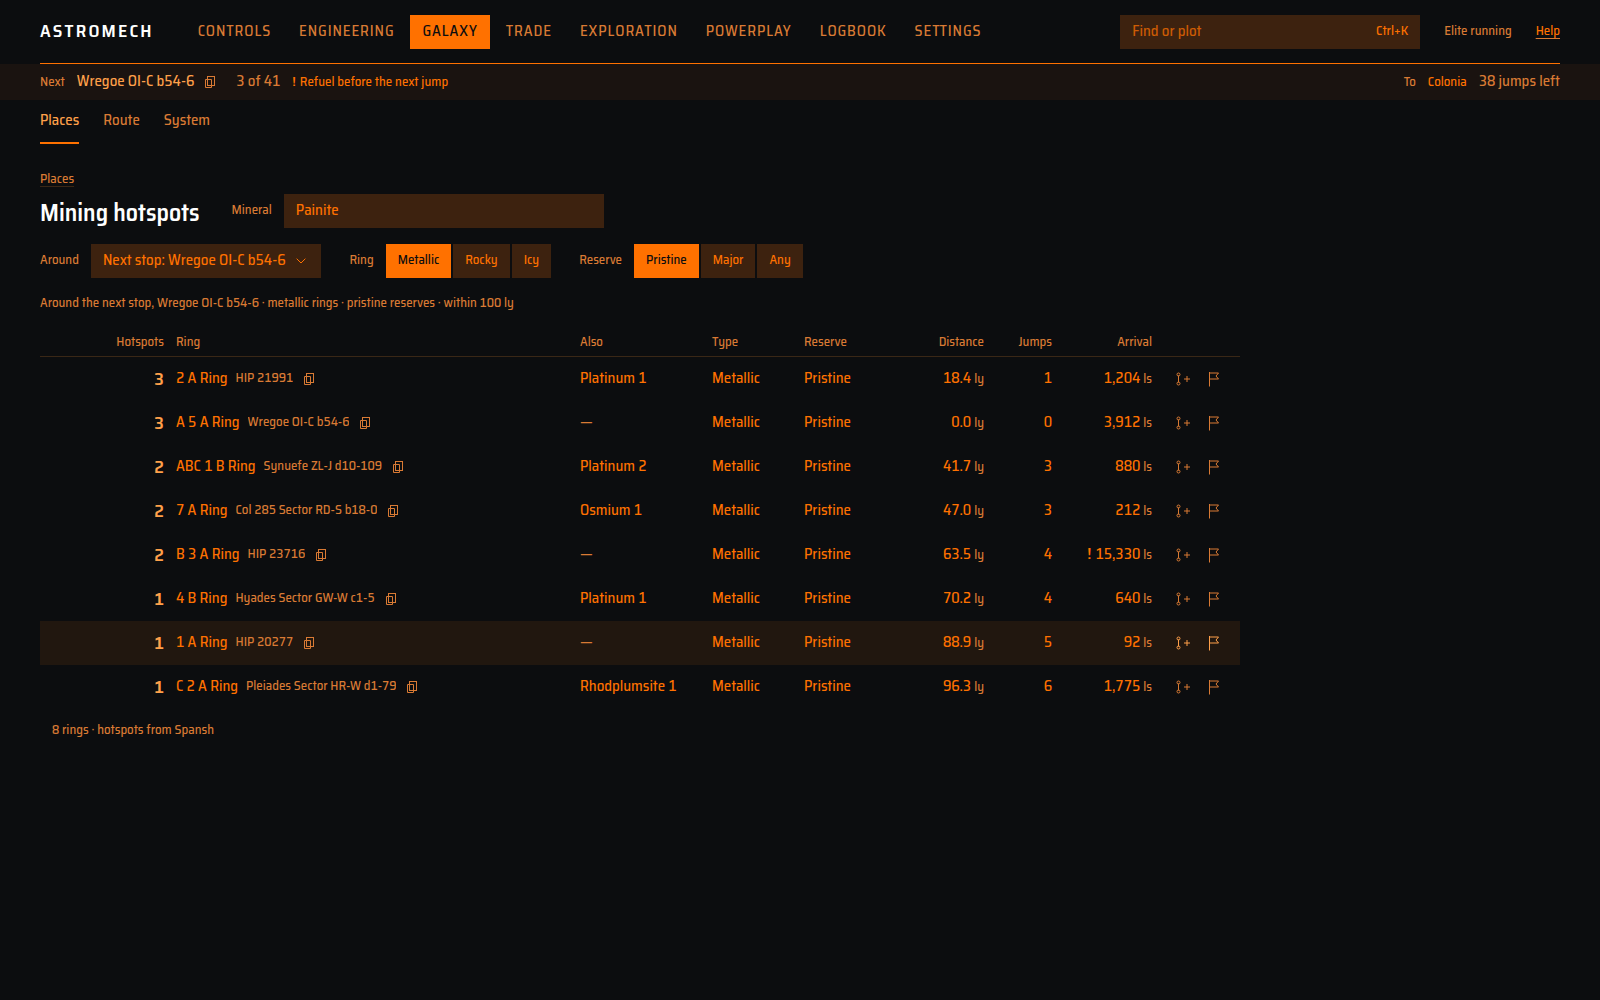
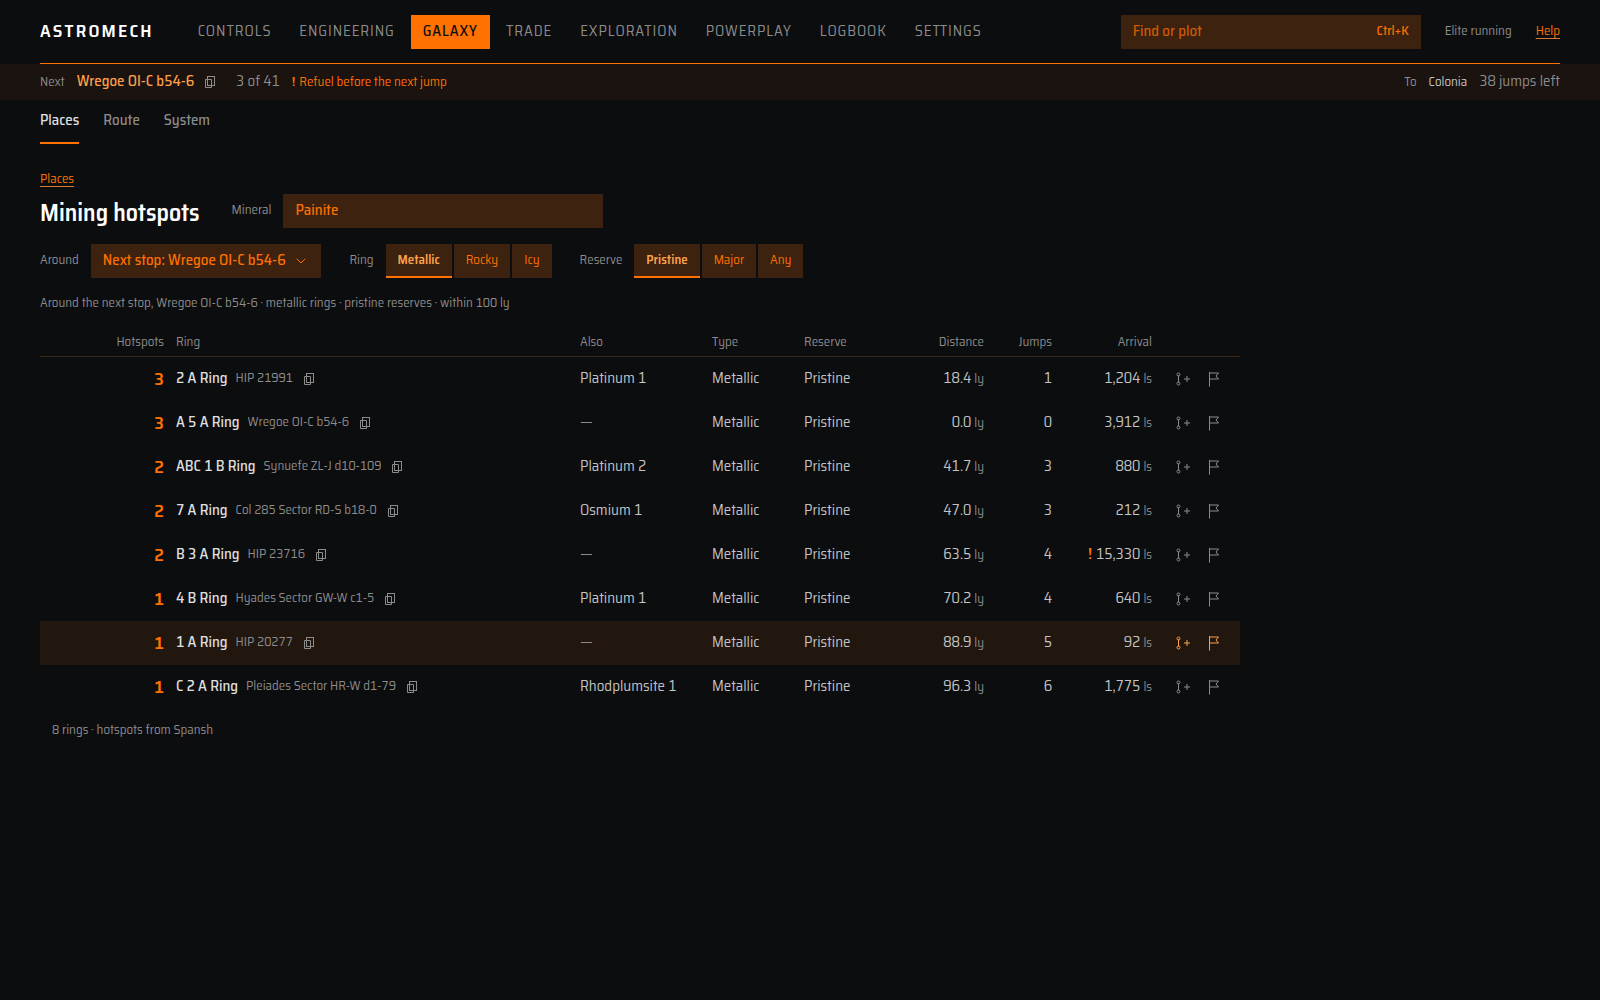
astromech-3kf5: after captures; design-system mockups re-rendered in revision 5's colours

diff --git a/app/src/mockups/ds/ds.css b/app/src/mockups/ds/ds.css
@@ -1,15 +1,16 @@
 /* Shared parts for the DESIGN.md mockups (#/mockup/ds-*). Only DESIGN.md tokens. */
-.ds { font-family: var(--face); font-stretch: var(--face-stretch); font-size: var(--fs); line-height: 1.45; color: var(--accent); font-variant-numeric: tabular-nums; }
+.ds { font-family: var(--face); font-stretch: var(--face-stretch); font-size: var(--fs); line-height: 1.45; font-weight: 400; color: var(--prose); font-variant-numeric: tabular-nums; }
 .ds button { all: unset; cursor: pointer; box-sizing: border-box; font-stretch: var(--face-stretch); }
 .ds :focus-visible, .ds .focus { outline: 1px solid var(--accent); outline-offset: 2px; }
-/* Focus on a filled element (selected row, tile or option, active top tab): On Orange, inset 2 px.
+/* Focus on a filled element (the primary button, the active top tab): On Orange, inset 2 px.
    .focus draws it in the static mockups. */
-.ds :is(.on, .sel):is(:focus-visible, .focus) { outline: 1px solid var(--on-accent); outline-offset: -3px; }
+.ds :is(.primary, .top .on):is(:focus-visible, .focus) { outline: 1px solid var(--on-accent); outline-offset: -3px; }
 
-/* The orange ramp and the few neutrals */
+/* Revision 5: data in the greys, orange for the ranked value, the main value and what to act on */
 .ds .lit { color: var(--orange-lit); }
 .ds .mid { color: var(--label-grey); }
-.ds .dim, .ds .dim * { color: var(--orange-dim) !important; }
+.ds .dim, .ds .dim * { color: var(--grey-dim) !important; }
+.ds .name { color: var(--options-grey); font-weight: 500; }
 .ds .white { color: var(--text-hi); }
 .ds .prose { color: var(--prose); }
 .ds .alarm { color: var(--alarm) !important; }
@@ -18,7 +19,7 @@
 /* Type roles */
 .ds .title { font-size: var(--fs-xl); font-weight: 600; line-height: 1.2; color: var(--text-hi); margin: 0; }
 .ds .label { font-size: var(--fs-s); color: var(--label-grey); }
-.ds .section { display: flex; align-items: center; gap: var(--sp-3); font-size: var(--fs-s); font-weight: 600; letter-spacing: var(--caps); text-transform: uppercase; color: var(--accent); margin: 0; }
+.ds .section { display: flex; align-items: center; gap: var(--sp-3); font-size: var(--fs-s); font-weight: 600; letter-spacing: var(--caps); text-transform: uppercase; color: var(--prose); margin: 0; }
 .ds .section::after { content: ""; flex: 1; height: 1px; background: var(--line); }
 .ds .section.current { color: var(--text-hi); }
 .ds .section.current::after { background: var(--accent); }
@@ -34,14 +35,14 @@
 .ds .bang.alarm { color: var(--alarm); }
 
 /* Ember cells mean editable. Text in a cell is at least base orange. */
-.ds .cell { display: flex; align-items: center; height: var(--row); padding: 0 var(--sp-3); background: var(--cell); color: var(--accent); }
+.ds .cell { display: flex; align-items: center; height: var(--row); padding: 0 var(--sp-3); background: var(--cell); color: var(--accent); font-weight: 500; }
 .ds .cell:hover { background: var(--cell-hover); }
 .ds .cell .ph { color: var(--placeholder); }
 .ds .cell.dropdown { justify-content: space-between; gap: var(--sp-2); }
 .ds .choices { display: inline-flex; gap: var(--gap); }
 .ds .choice { display: inline-flex; align-items: center; height: var(--row); padding: 0 var(--sp-3); background: var(--cell); color: var(--accent); font-size: var(--fs-s); }
 .ds .choice:hover { background: var(--cell-hover); }
-.ds .choice.on { background: var(--accent); color: var(--on-accent); }
+.ds .choice.on { color: var(--orange-lit); font-weight: 600; box-shadow: inset 0 -2px var(--accent); }
 
 /* Badge: outlined, never filled. */
 .ds .badge { display: inline-flex; align-items: center; height: 20px; padding: 0 6px; border: 1px solid var(--line); color: var(--label-grey); font-size: var(--fs-s); line-height: 1; white-space: nowrap; }

diff --git a/app/src/mockups/ds/Materials.svelte b/app/src/mockups/ds/Materials.svelte
@@ -43,7 +43,7 @@
               <span class="count num">{n}</span>
               <span class="name">{name}</span>
               {#if want}<span class="need num">{#if n < want}<span class="bang">!</span>{/if}need {want}</span>{/if}
-              {#if n > 0 && name !== selected}<span class="track"><span class="fill" class:full={n >= cap} style="width: {(100 * n) / cap}%"></span></span>{/if}
+              {#if n > 0}<span class="track"><span class="fill" class:full={n >= cap} style="width: {(100 * n) / cap}%"></span></span>{/if}
             </div>
           {/each}
         {/each}
@@ -53,7 +53,7 @@
     <aside>
       <h2 class="title">Iron</h2>
       <p class="label">Raw · grade 1 · category 4</p>
-      <p class="held"><span class="white big">22</span><span class="unit">of 300</span></p>
+      <p class="held"><span class="lit big">22</span><span class="unit">of 300</span></p>
       <dl>
         <dt class="label">Trade up</dt><dd><span class="num">6</span> Iron → <span class="num">1</span> Zinc</dd>
         <dt class="label">Trade down</dt><dd>—</dd>
@@ -73,19 +73,20 @@
   .colhead { padding: 0 var(--sp-3); }
   .rowhead { align-self: center; }
   .rowhead.current { color: var(--text-hi); }
-  .tile { position: relative; height: var(--tile); padding: 10px var(--sp-3); background: var(--surface); display: grid; grid-template-rows: auto 1fr; align-content: start; }
-  .count { font-size: var(--fs-xxl); font-weight: 500; line-height: 1; color: var(--orange-lit); }
-  .name { align-self: end; font-size: var(--fs-s); color: var(--accent); }
+  /* Revision 5's tile: a Seam outline on Void, the count Options Grey, the name Prose Grey, the
+     plan's mark Orange; the selected tile raised with its count and name White. */
+  .tile { position: relative; height: var(--tile); padding: 10px var(--sp-3); background: var(--bg); outline: 1px solid var(--line); outline-offset: -1px; display: grid; grid-template-rows: auto 1fr; align-content: start; }
+  .count { font-size: var(--fs-xxl); font-weight: 500; line-height: 1; color: var(--options-grey); }
+  .name { align-self: end; font-size: var(--fs-s); font-weight: 400; color: var(--prose); }
   .need { position: absolute; top: 10px; right: var(--sp-3); font-size: var(--fs-xs); color: var(--accent); }
-  .track { position: absolute; left: 0; right: 0; bottom: 0; height: 2px; background: var(--line); }
-  .fill { display: block; height: 100%; background: var(--orange-mid); }
+  .track { position: absolute; left: 0; right: 0; bottom: 0; height: 2px; background: var(--mark-off); }
+  .fill { display: block; height: 100%; background: var(--prose); }
   .fill.full { background: var(--orange-lit); }
-  .tile.none { background: var(--bg); outline: 1px solid var(--line); outline-offset: -1px; }
-  .tile.none .count, .tile.none .name { color: var(--orange-dim); }
-  .tile.sel { background: var(--accent); }
-  .tile.sel .count, .tile.sel .name { color: var(--on-accent); }
+  .tile.none .count, .tile.none .name { color: var(--grey-dim); }
+  .tile.sel { background: var(--surface-hi); }
+  .tile.sel .count, .tile.sel .name { color: var(--text-hi); }
 
-  aside { border-left: 1px solid var(--accent); padding: 0 0 0 var(--sp-6); }
+  aside { border-left: 1px solid var(--line); padding: 0 0 0 var(--sp-6); }
   aside .label { margin: var(--sp-1) 0 0; }
   .held { margin: var(--sp-4) 0; }
   .big { font-size: var(--fs-xxl); font-weight: 500; }

diff --git a/app/src/mockups/ds/Finder.svelte b/app/src/mockups/ds/Finder.svelte
@@ -115,7 +115,7 @@
       </div>
       {#each f.rows as r, i (r.place)}
         <div class="row" class:hover={i === hover} class:stale={r.stale}>
-          <span class="r lead"><span class="lit v">{r.lead}</span>{#if f.lead.unit}<span class="unit">{f.lead.unit}</span>{/if}</span>
+          <span class="r lead"><span class="v">{r.lead}</span>{#if f.lead.unit}<span class="unit">{f.lead.unit}</span>{/if}</span>
           <span class="place"><span class="pname">{r.place}</span><span class="sys label">{r.system}</span><Copy /></span>
           {#each f.cols as c (c.key)}
             {@const text = c.key === "also" || c.key === "ring" || c.key === "reserve"}
@@ -136,7 +136,7 @@
 
 <style>
   .finder { max-width: var(--list-w); }
-  .crumb { color: var(--label-grey); text-decoration: underline; text-decoration-color: var(--line); text-underline-offset: 3px; }
+  .crumb { color: var(--accent); text-decoration: underline; text-decoration-color: var(--orange-mid); text-underline-offset: 3px; }
   .head { display: flex; align-items: flex-end; gap: var(--sp-8); margin: var(--sp-1) 0 var(--sp-4); }
   .main { display: flex; align-items: center; gap: var(--sp-3); }
   .input { width: 320px; }
@@ -148,13 +148,14 @@
   .row.heads { height: 28px; border-bottom: 1px solid var(--line); }
   .row.hover { background: var(--row-hover); }
   .row.hover .ibtn { color: var(--orange-lit); }
-  /* Stale: the name stays Orange, the value and facts step down to Mid, the age stays Orange. */
-  .row.stale > span, .row.stale .v { color: var(--label-grey); }
-  .row.stale .pname, .row.stale .age { color: var(--accent); }
+  /* Stale: the ranked value steps down to Orange Mid, and the age, the brightest fact, is Orange. */
+  .row.stale .v { color: var(--orange-mid); }
+  .row.stale .age { color: var(--accent); }
   .r { text-align: right; }
-  .lead .v { font-size: var(--fs-l); font-weight: 600; }
+  /* The value the list is ranked by: its one orange column. */
+  .lead .v { font-size: var(--fs-l); font-weight: 600; color: var(--accent); }
   .place { display: flex; align-items: center; gap: var(--sp-2); min-width: 0; overflow: hidden; }
-  .pname { font-weight: 500; overflow: hidden; text-overflow: ellipsis; }
+  .pname { color: var(--options-grey); font-weight: 500; overflow: hidden; text-overflow: ellipsis; }
   .sys { overflow: hidden; text-overflow: ellipsis; }
   .place :global(.ibtn) { margin-left: -6px; }
   .acts { display: flex; justify-content: flex-end; gap: var(--sp-1); }

diff --git a/app/src/mockups/ds/Chrome.svelte b/app/src/mockups/ds/Chrome.svelte
@@ -46,8 +46,8 @@
   header { display: flex; align-items: center; gap: var(--sp-6); margin: 0 var(--gutter); border-bottom: 1px solid var(--accent); }
   .mark { font-weight: 600; font-size: var(--fs-l); letter-spacing: 0.12em; color: var(--text-hi); margin-right: var(--sp-2); }
   .top { display: flex; gap: var(--sp-1); flex: 1; }
-  .top span { display: flex; align-items: center; height: var(--row); padding: 0 var(--sp-3); font-weight: 500; letter-spacing: var(--caps); text-transform: uppercase; color: var(--label-grey); }
-  .top span.on { background: var(--accent); color: var(--on-accent); }
+  .top span { display: flex; align-items: center; height: var(--row); padding: 0 var(--sp-3); font-weight: 500; letter-spacing: var(--caps); text-transform: uppercase; color: var(--label-grey); font-weight: 400; }
+  .top span.on { background: var(--accent); color: var(--on-accent); font-weight: 500; }
   .find { width: 300px; justify-content: space-between; }
   .find .key { font-size: var(--fs-s); } /* text in a cell is at least Orange */
   .help { color: var(--accent); font-size: var(--fs-s); text-decoration: underline; text-decoration-color: var(--orange-mid); text-underline-offset: 3px; }
@@ -58,6 +58,6 @@
   .strip .dest { font-size: var(--fs-s); }
   .page { display: flex; gap: var(--sp-6); align-items: stretch; margin: 0 var(--gutter); }
   .page span { display: flex; align-items: center; font-weight: 500; color: var(--label-grey); border-bottom: 2px solid transparent; }
-  .page span.on { color: var(--orange-lit); border-bottom-color: var(--accent); }
+  .page span.on { color: var(--options-grey); border-bottom-color: var(--accent); }
   main { min-height: 0; overflow: hidden; padding: var(--sp-6) var(--gutter) 0; }
 </style>

diff --git a/app/src/mockups/ds/PlacesHome.svelte b/app/src/mockups/ds/PlacesHome.svelte
@@ -56,9 +56,10 @@
   .home { max-width: var(--list-w); display: grid; grid-template-columns: 1fr; gap: var(--sp-6); }
   .section { margin-bottom: var(--sp-3); max-width: calc(3 * 220px + 2 * var(--sp-2)); }
   .tiles { display: grid; grid-template-columns: repeat(auto-fill, 220px); gap: var(--sp-2); max-width: calc(3 * 220px + 2 * var(--sp-2)); }
-  .tile { display: grid; grid-template-rows: auto auto 1fr; gap: var(--sp-1); min-height: 104px; padding: var(--sp-3); background: var(--surface); text-decoration: none; color: inherit; }
-  .tile.hover { background: var(--row-hover); outline: 1px solid var(--line); outline-offset: -1px; }
-  .name { font-weight: 500; }
+  .tile { display: grid; grid-template-rows: auto auto 1fr; gap: var(--sp-1); min-height: 104px; padding: var(--sp-3); outline: 1px solid var(--line); outline-offset: -1px; text-decoration: none; color: inherit; }
+  .tile.hover { background: var(--row-hover); }
+  /* The finder's name is what you press: Orange. */
+  .tile .name { color: var(--accent); }
   .answer { align-self: end; display: flex; justify-content: space-between; align-items: baseline; gap: var(--sp-2); }
-  .v { font-size: var(--fs-l); font-weight: 600; color: var(--orange-lit); }
+  .v { font-size: var(--fs-l); font-weight: 600; color: var(--options-grey); }
 </style>

diff --git a/app/src/mockups/ds/Settings.svelte b/app/src/mockups/ds/Settings.svelte
@@ -70,7 +70,7 @@
   .section { margin-bottom: var(--sp-3); }
   .row { display: grid; grid-template-columns: 200px 1fr; align-items: center; min-height: var(--row); margin-bottom: var(--gap); }
   .lab { color: var(--options-grey); padding-left: var(--sp-3); }
-  .fact { padding: 0 var(--sp-3); color: var(--accent); }
+  .fact { padding: 0 var(--sp-3); color: var(--prose); }
   .value { justify-content: space-between; }
   .value.binding > span:first-child { color: var(--options-grey); }
   .end { display: flex; align-items: center; gap: var(--sp-2); margin-right: calc(-1 * var(--sp-2)); }
